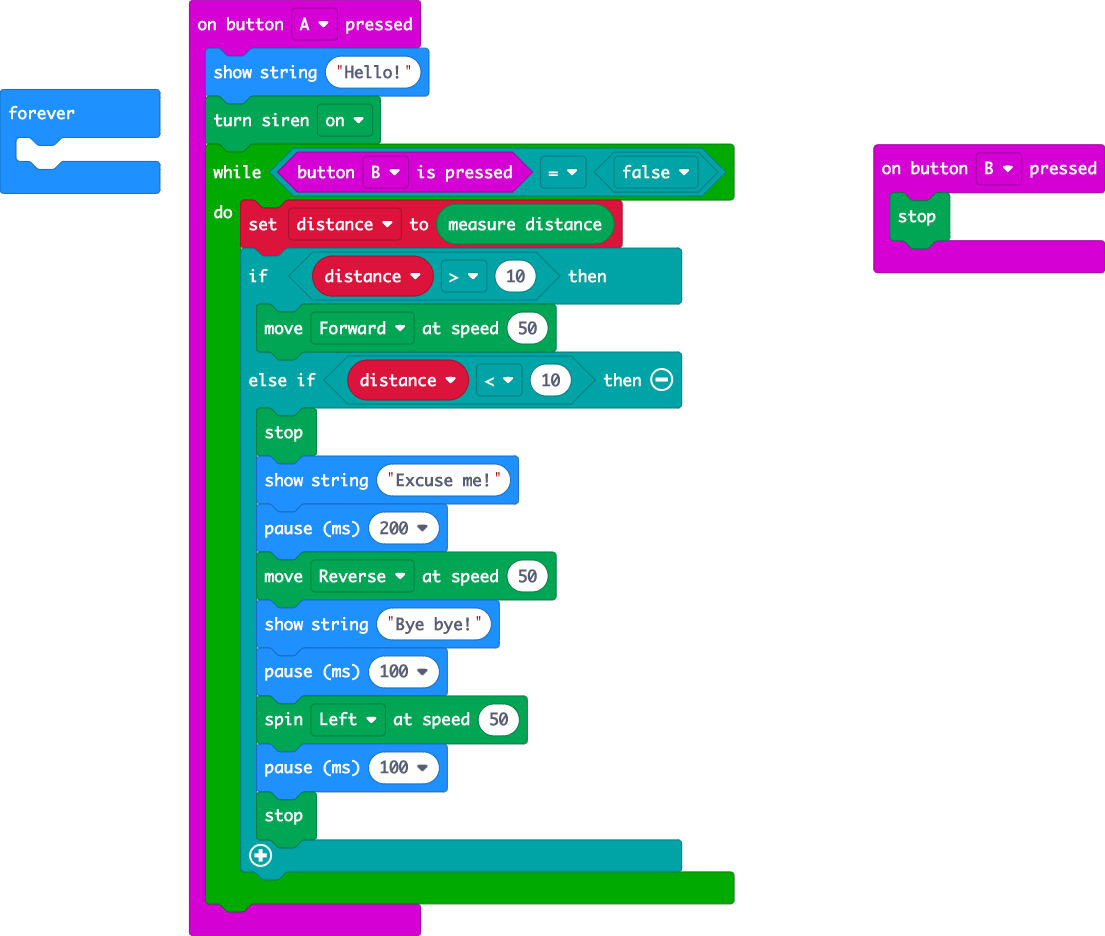
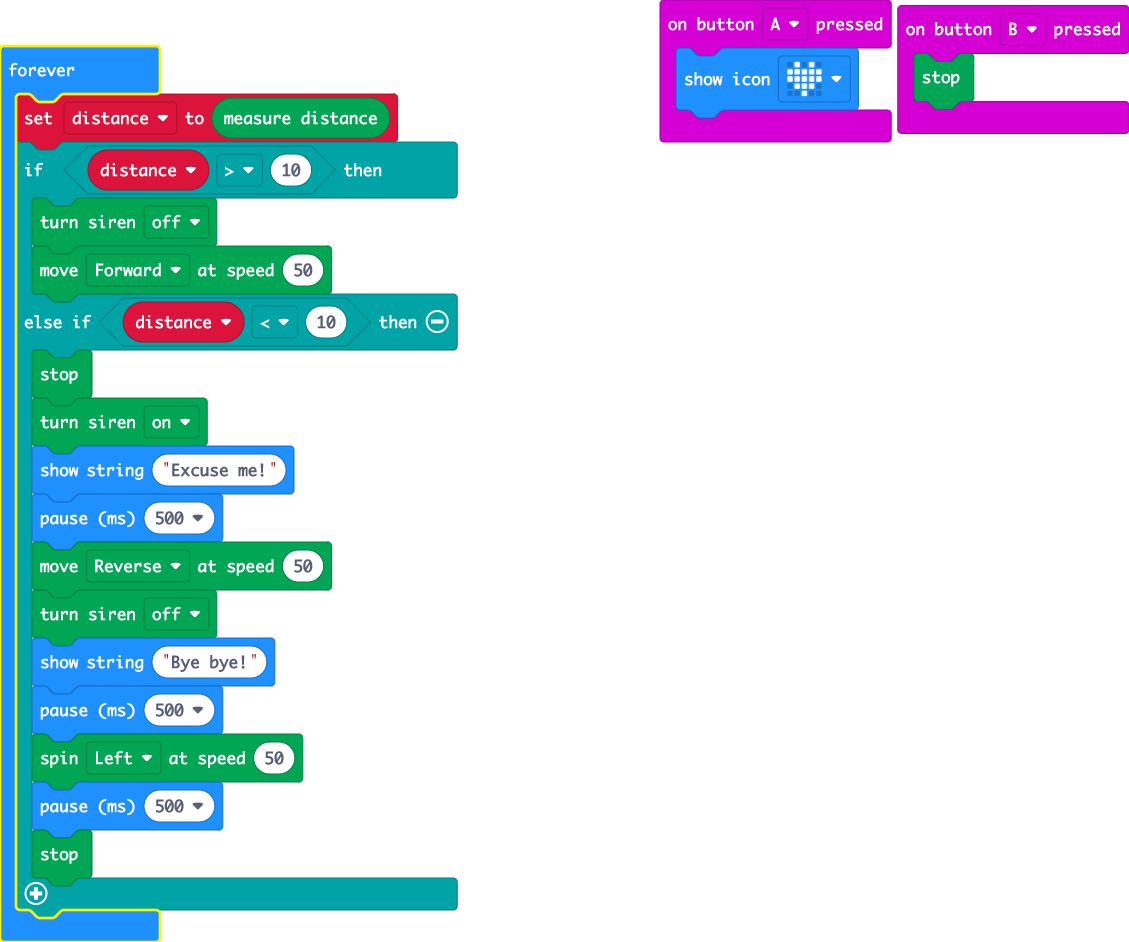
Update pxt.json, main.blocks, main.ts, main.py

diff --git a/main.ts b/main.ts
@@ -1,27 +1,26 @@
 let distance = 0
 input.onButtonPressed(Button.A, function () {
-    basic.showString("Hello!")
-    Kitronik_Move_Motor.soundSiren(Kitronik_Move_Motor.OnOffSelection.On)
-    while (input.buttonIsPressed(Button.B) == false) {
-        distance = Kitronik_Move_Motor.measure()
-        if (distance > 10) {
-            Kitronik_Move_Motor.move(Kitronik_Move_Motor.DriveDirections.Forward, 50)
-        } else if (distance < 10) {
-            Kitronik_Move_Motor.stop()
-            basic.showString("Excuse me!")
-            basic.pause(200)
-            Kitronik_Move_Motor.move(Kitronik_Move_Motor.DriveDirections.Reverse, 50)
-            basic.showString("Bye bye!")
-            basic.pause(100)
-            Kitronik_Move_Motor.spin(Kitronik_Move_Motor.SpinDirections.Left, 50)
-            basic.pause(100)
-            Kitronik_Move_Motor.stop()
-        }
-    }
+    basic.showIcon(IconNames.Heart)
 })
 input.onButtonPressed(Button.B, function () {
     Kitronik_Move_Motor.stop()
 })
 basic.forever(function () {
-	
+    distance = Kitronik_Move_Motor.measure()
+    if (distance > 10) {
+        Kitronik_Move_Motor.soundSiren(Kitronik_Move_Motor.OnOffSelection.Off)
+        Kitronik_Move_Motor.move(Kitronik_Move_Motor.DriveDirections.Forward, 50)
+    } else if (distance < 10) {
+        Kitronik_Move_Motor.stop()
+        Kitronik_Move_Motor.soundSiren(Kitronik_Move_Motor.OnOffSelection.On)
+        basic.showString("Excuse me!")
+        basic.pause(500)
+        Kitronik_Move_Motor.move(Kitronik_Move_Motor.DriveDirections.Reverse, 50)
+        Kitronik_Move_Motor.soundSiren(Kitronik_Move_Motor.OnOffSelection.Off)
+        basic.showString("Bye bye!")
+        basic.pause(500)
+        Kitronik_Move_Motor.spin(Kitronik_Move_Motor.SpinDirections.Left, 50)
+        basic.pause(500)
+        Kitronik_Move_Motor.stop()
+    }
 })

diff --git a/main.py b/main.py
@@ -1,0 +1,29 @@
+distance = 0
+
+def on_button_pressed_a():
+    basic.show_icon(IconNames.HEART)
+input.on_button_pressed(Button.A, on_button_pressed_a)
+
+def on_button_pressed_b():
+    Kitronik_Move_Motor.stop()
+input.on_button_pressed(Button.B, on_button_pressed_b)
+
+def on_forever():
+    global distance
+    distance = Kitronik_Move_Motor.measure()
+    if distance > 10:
+        Kitronik_Move_Motor.sound_siren(Kitronik_Move_Motor.OnOffSelection.OFF)
+        Kitronik_Move_Motor.move(Kitronik_Move_Motor.DriveDirections.FORWARD, 50)
+    elif distance < 10:
+        Kitronik_Move_Motor.stop()
+        Kitronik_Move_Motor.sound_siren(Kitronik_Move_Motor.OnOffSelection.ON)
+        basic.show_string("Excuse me!")
+        basic.pause(500)
+        Kitronik_Move_Motor.move(Kitronik_Move_Motor.DriveDirections.REVERSE, 50)
+        basic.show_string("Bye bye!")
+        basic.pause(500)
+        Kitronik_Move_Motor.sound_siren(Kitronik_Move_Motor.OnOffSelection.OFF)
+        Kitronik_Move_Motor.spin(Kitronik_Move_Motor.SpinDirections.LEFT, 50)
+        basic.pause(500)
+        Kitronik_Move_Motor.stop()
+basic.forever(on_forever)
